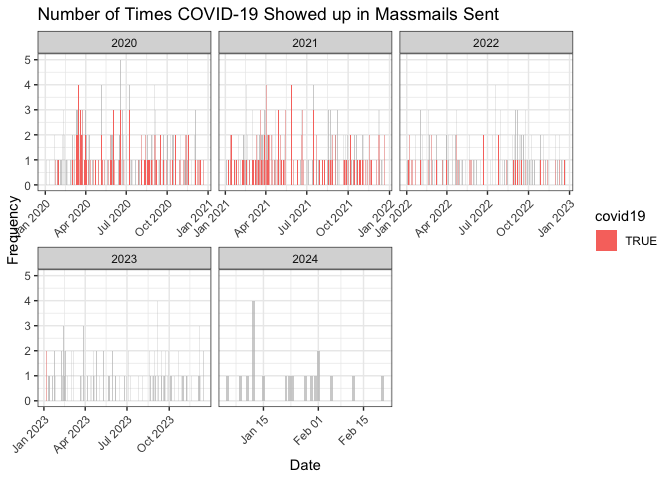
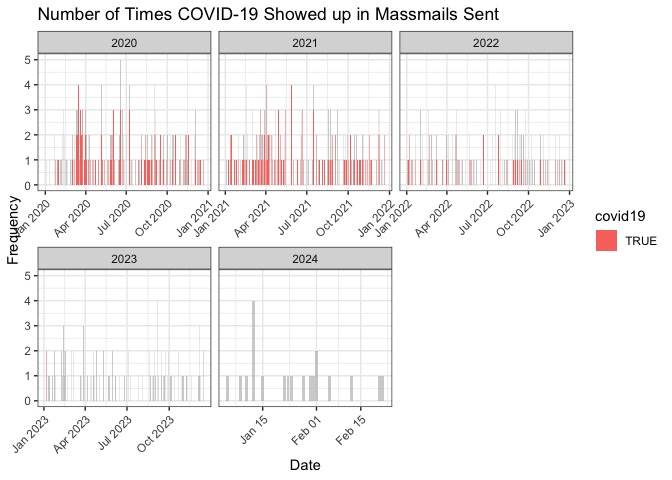
Re-build README.Rmd and Graphs

diff --git a/README.md b/README.md
@@ -17,7 +17,7 @@ The archive may be viewed here:
 
 <https://massmail.illinois.edu/massmailArchive>
 
-Data has **789** observations and **7** variables:
+Data has **790** observations and **7** variables:
 
 - `datetime`: Date and time when the email was sent in the form of
   `YYYY-MM-DD HMS` with either CDT or CST.
@@ -210,15 +210,15 @@ head(most_popular_words, 10) %>%
 
 | word       | freq |
 |:-----------|-----:|
-| university | 2111 |
-| students   | 1769 |
+| university | 2112 |
+| students   | 1771 |
 | campus     | 1589 |
-| illinois   | 1405 |
+| illinois   | 1408 |
 | covid      | 1070 |
 | faculty    | 1034 |
 | student    |  997 |
 | community  |  979 |
-| health     |  971 |
+| health     |  972 |
 | staff      |  877 |
 
 #### Wordcloud
